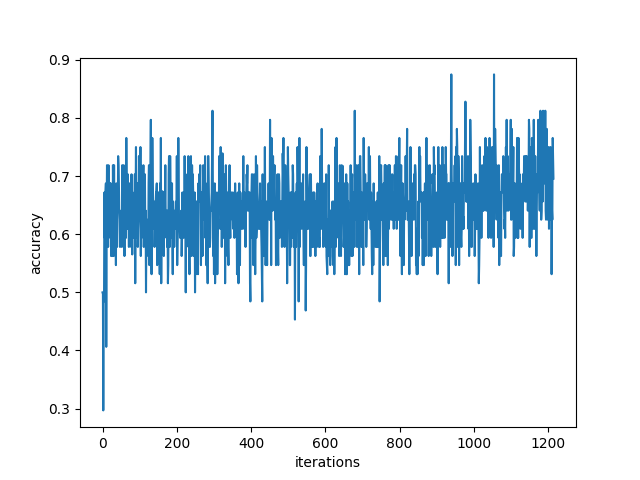
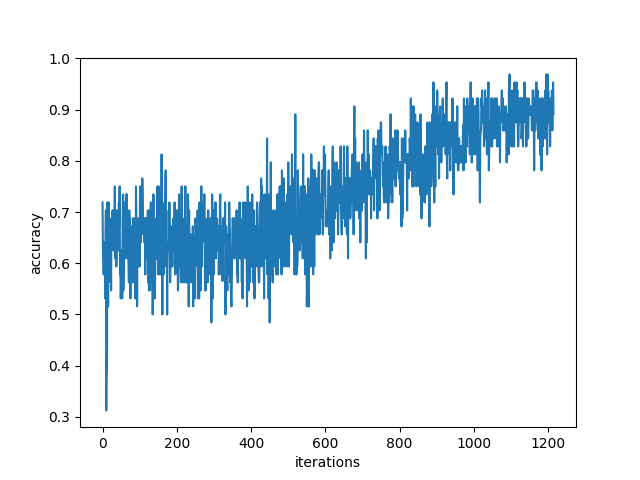
best model so far

diff --git a/Vishal_tests/base/smile_model.py b/Vishal_tests/base/smile_model.py
@@ -238,7 +238,7 @@ print("defined model")
 model.type(dtype)
 model.train()
 loss_fn = nn.CrossEntropyLoss().type(dtype)
-optimizer = optim.Adam(model.parameters(), lr=1e-4,weight_decay=0)
+optimizer = optim.Adam(model.parameters(), lr=5e-5,weight_decay=0)
 print("start training")
 loss_history,acc_history,val_acc_history=train(train_loader,val_loader, model, loss_fn, optimizer, dtype,num_epochs=15, print_every=10)
 
